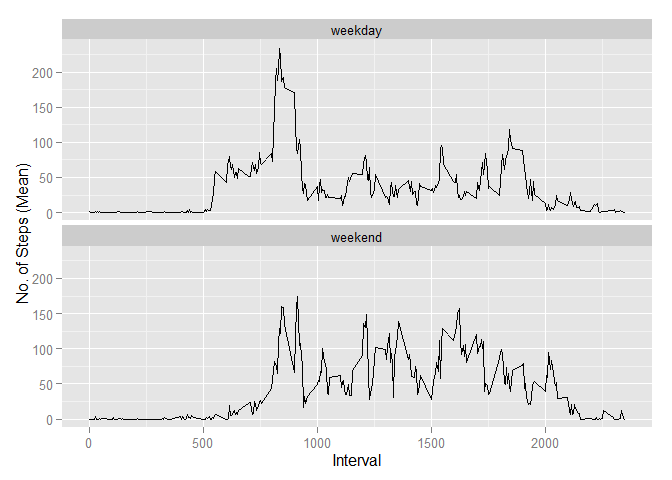
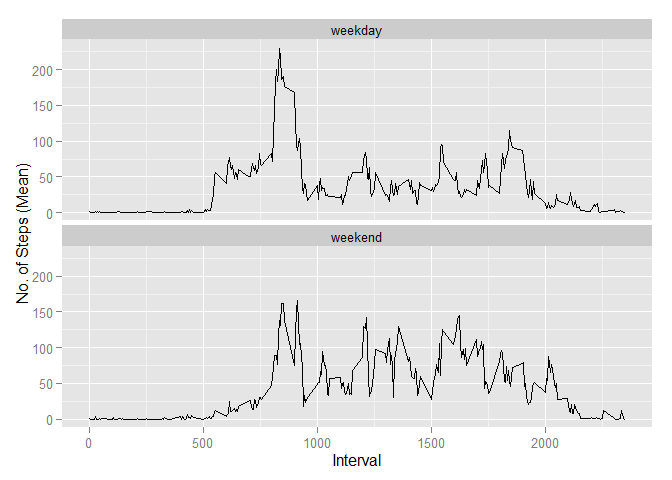
commit 3

diff --git a/PA1_template.html b/PA1_template.html
@@ -187,27 +187,24 @@ median(qn3$x)</code></pre>
 <li>Create a new factor variable in the dataset with two levels - “weekday” and “weekend” indicating whether a given date is a weekday or weekend day.</li>
 </ol>
 <p><em>Ans: Created new dataset with a new level</em></p>
-<pre class="r"><code>## remove na values from dataset
-activity_without_na &lt;- activity[!is.na(activity$steps), ]
-
-## create new column in dataset and set all to weekday
-activity_without_na$weekday &lt;- &quot;weekday&quot;
+<pre class="r"><code>## create new column in dataset and set all to weekday
+activity_final$weekday &lt;- &quot;weekday&quot;
 
 ## using the date as reference, update new column to weekends where applicable
-activity_without_na[weekdays(activity_without_na$date) == &quot;Saturday&quot; | weekdays(activity_without_na$date) == &quot;Sunday&quot;, ]$weekday &lt;- &quot;weekend&quot;</code></pre>
+activity_final[weekdays(activity_final$date) == &quot;Saturday&quot; | weekdays(activity_final$date) == &quot;Sunday&quot;, ]$weekday &lt;- &quot;weekend&quot;</code></pre>
 <ol start="2" style="list-style-type: decimal">
 <li>Make a panel plot containing a time series plot (i.e. type = “l”) of the 5-minute interval (x-axis) and the average number of steps taken, averaged across all weekday days or weekend days (y-axis).</li>
 </ol>
 <p><em>Ans: See below plot</em></p>
 <pre class="r"><code>## aggregate values using average for 5-minute interval and weekday
-qn4 &lt;- aggregate(activity_without_na$steps, by=list(activity_without_na$interval, activity_without_na$weekday), mean)
+qn4 &lt;- aggregate(activity_final$final_steps, by=list(activity_final$interval, activity_final$weekday), mean)
 
 ## update column names of aggregated dataset
 colnames(qn4) &lt;- c(&quot;Interval&quot;, &quot;weekday&quot;, &quot;Mean_Steps&quot;)
 
 ## plot panel plot with line graph
 ggplot(data=qn4, aes(x=Interval, y=Mean_Steps)) + geom_line() + facet_wrap( ~ weekday, ncol = 1) + labs(y=&quot;No. of Steps (Mean)&quot;)</code></pre>
[2 lines of base64/hex data omitted]
 </div>
 
 

diff --git a/PA1_template.md b/PA1_template.md
@@ -203,14 +203,11 @@ median(qn3$x)
 
 
 ```r
-## remove na values from dataset
-activity_without_na <- activity[!is.na(activity$steps), ]
-
 ## create new column in dataset and set all to weekday
-activity_without_na$weekday <- "weekday"
+activity_final$weekday <- "weekday"
 
 ## using the date as reference, update new column to weekends where applicable
-activity_without_na[weekdays(activity_without_na$date) == "Saturday" | weekdays(activity_without_na$date) == "Sunday", ]$weekday <- "weekend"
+activity_final[weekdays(activity_final$date) == "Saturday" | weekdays(activity_final$date) == "Sunday", ]$weekday <- "weekend"
 ```
 
 2. Make a panel plot containing a time series plot (i.e. type = "l") of the 5-minute interval (x-axis) and the average number of steps taken, averaged across all weekday days or weekend days (y-axis).
@@ -220,7 +217,7 @@ activity_without_na[weekdays(activity_without_na$date) == "Saturday" | weekdays(
 
 ```r
 ## aggregate values using average for 5-minute interval and weekday
-qn4 <- aggregate(activity_without_na$steps, by=list(activity_without_na$interval, activity_without_na$weekday), mean)
+qn4 <- aggregate(activity_final$final_steps, by=list(activity_final$interval, activity_final$weekday), mean)
 
 ## update column names of aggregated dataset
 colnames(qn4) <- c("Interval", "weekday", "Mean_Steps")
